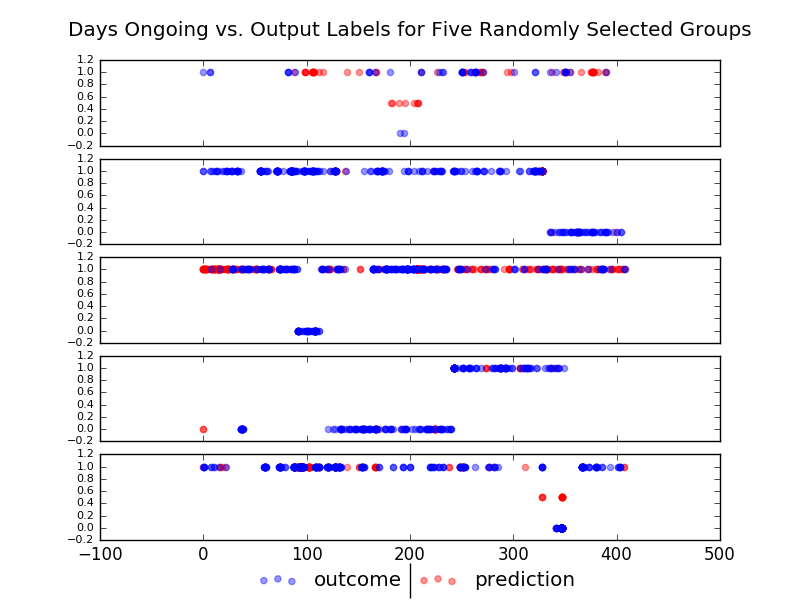
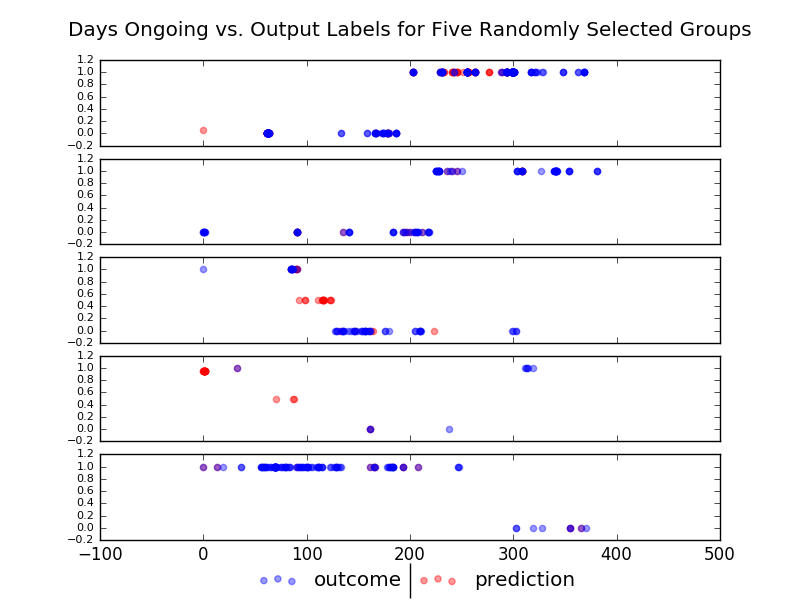
finalized my benchmark model and my visualization section

diff --git a/code/model.py b/code/model.py
@@ -3,9 +3,17 @@ import pandas as pd
 import numpy as np
 
 
-def group_decision(train, test):
+def group_decision(train, test, only_certain=True):
     # Exploit the leak revealed by Loiso and team to try and directly infer any labels that can be inferred
     # https://www.kaggle.com/c/predicting-red-hat-business-value/forums/t/22807/0-987-kernel-now-available-seems-like-leakage
+
+    # Make a lookup dataframe, and copy those in first since we can be sure of them
+    lookup = train.groupby(["group_1", "date_act"], as_index=False)["outcome"].mean()
+    test = pd.merge(test.reset_index(), lookup, how="left", on=["group_1", "date_act"]).set_index("activity_id")
+
+    # Create some date filling columns that we'll use after we append
+    train["date_act_fillfw"] = train["date_act"]
+    train["date_act_fillbw"] = train["date_act"]
 
     # Create some group filling columns for later use
     train["group_fillfw"] = train["group_1"]
@@ -15,6 +23,10 @@ def group_decision(train, test):
     df = train.append(test)
     df = df.sort_values(by=["group_1", "date_act"])
 
+    # Fill the dates
+    df["date_act_fillfw"] = df["date_act_fillfw"].fillna(method="ffill")
+    df["date_act_fillbw"] = df["date_act_fillbw"].fillna(method="bfill")
+
     # Fill labels
     df["outcome_fillfw"] = df["outcome"].fillna(method="ffill")
     df["outcome_fillbw"] = df["outcome"].fillna(method="bfill")
@@ -23,14 +35,34 @@ def group_decision(train, test):
     df["group_fillfw"] = df["group_fillfw"].fillna(method="ffill")
     df["group_fillbw"] = df["group_fillbw"].fillna(method="bfill")
 
-    # Use the filled labels only if the labels were from the same group, unless we're at the end of the group
+    # Create int booleans for whether the fillers are from the same date
+    df["fw_same_date"] = (df["date_act_fillfw"] == df["date_act"]).astype(int)
+    df["bw_same_date"] = (df["date_act_fillbw"] == df["date_act"]).astype(int)
+
+    # Create int booleans for whether the fillers are in the same group
     df["fw_same_group"] = (df["group_fillfw"] == df["group_1"]).astype(int)
     df["bw_same_group"] = (df["group_fillbw"] == df["group_1"]).astype(int)
-    df["interfill"] = (df["outcome_fillfw"]*df["fw_same_group"] +
-                       df["outcome_fillbw"]*df["bw_same_group"]) / (df["fw_same_group"] + df["bw_same_group"])
+
+    # Use the filled labels only if the labels were from the same group, unless we're at the end of the group
+    df["interfill"] = (df["outcome_fillfw"] *
+                       df["fw_same_group"] +
+                       df["outcome_fillbw"] *
+                       df["bw_same_group"]) / (df["fw_same_group"] +
+                                               df["bw_same_group"])
+
+    # If the labels are at the end of the group, cushion by 0.5
+    df["needs cushion"] = (df["fw_same_group"] * df["bw_same_group"] - 1).abs()
+    df["cushion"] = df["needs cushion"] * df["interfill"] * -0.1 + df["needs cushion"] * 0.05
+    df["interfill"] = df["interfill"] + df["cushion"]
+
+    # Fill everything
     df["outcome"] = df["outcome"].fillna(df["interfill"])
 
-    # Paste outcomes to the original index
+    if only_certain == True:
+        # Drop anything we're not 100% certain of
+        df = df[(df["outcome"] == 0.0) | (df["outcome"] == 1.0)]
+
+    # Return outcomes to the original index
     test["outcome"] = df["outcome"]
 
     return test["outcome"]
@@ -41,11 +73,11 @@ def benchmark_model():
     # Load in the data set simply by merging together
     train, test = simple_load()
 
-    # Try to just cluster together dates by each
-    test["outcome"] = group_decision(train, test)
+    # Try to just infer the correct dates using the data leak
+    test["outcome"] = group_decision(train, test, only_certain=False)
 
     # Write the inferred predictions to a template
-    test.reset_index()[["activity_id", "outcome"]].to_csv("../output/starter_template.csv")
+    test.reset_index()[["activity_id", "outcome"]].to_csv("../output/starter_template.csv", index=False)
 
     # Fill any missing rows with the mean of the whole column
     test["outcome"] = test["outcome"].fillna(test["outcome"].mean())

diff --git a/code/explore.py b/code/explore.py
@@ -49,7 +49,7 @@ def groupplot():
     grps["Min Label"] = df.groupby("group_1")["prediction"].min()
     grps["Max Label"] = df.groupby("group_1")["prediction"].max()
     grps["Count Label"] = df.groupby("group_1")["prediction"].count()
-    grps = grps[grps["Min Label"] != grps["Max Label"]][grps["Count Label"] >= 10]
+    grps = grps[grps["Min Label"] < 0.25][grps["Max Label"] > 0.75][grps["Count Label"] >= 10]
     grps = grps.sample(5, random_state=42)
     grps = list(grps.index)
 
@@ -84,9 +84,6 @@ def groupplot():
     plt.savefig("../images/output_group_scatters.png")
     plt.clf()
 
-# train, test = simple_load()
-template = pd.read_csv("../output/starter_template.csv")
-
-print len(template.index)
-print len(template[(template["outcome"] != 0.0) & (template["outcome"] != 1.0)].index)
+train, test = simple_load()
+groupplot()
 

diff --git a/code/utilities.py b/code/utilities.py
@@ -1,5 +1,4 @@
 import pandas as pd
-import numpy as np
 
 
 def simple_load():

diff --git a/report.md b/report.md
@@ -244,16 +244,13 @@ Because the data leak is going to be an important part of this
 competition, and because it's a little tricky to understand exactly how
 the leak happened, I'm devoting this section to my benchmark model
 [which is very similar to the loisso team's leak model](https://www.kaggle.com/loisso/predicting-red-hat-business-value/lb-0-987-group-1-and-date-trick/output).
-My benchmark model will probably serve as the starting point for my
-final machine learning model, so it's very important to understand what
-data points are leftover from the leak that still need to be estimated.
 
 The following graphic is five separate scatter plots, each of a randomly
 selected people group from the "group_1" feature, with predictions from
 my benchmark model. The graph was definitely inspired by one that
 [dmi3kno created originally](https://www.kaggle.com/dmi3kno/predicting-red-hat-business-value/redhat-hack-in-plain-english-eda),
-but this one pertains specifically to my implementation of the
-leak/exploit model.
+but this one pertains specifically to 
+[my implementation of the leak/exploit model](https://www.kaggle.com/kevinpalm/predicting-red-hat-business-value/simplified-leak-starter-template/output).
 
 ![Multiple Scatter Plots of the Benchmark/Leak Model Predictions](images/output_group_scatters.png)
 
@@ -270,14 +267,22 @@ training set on the right, and it looks at the nearest output on the
 left. If they both agree, it assigns the same label to the point it is
 currently estimating. If they disagree, it assigns a label of 0.5. If
 the point happens to be on the rightmost or leftmost extreme, it assumes
-the closest output label is correct.
+the closest output label is correct. Finally, it adds a little
+cushioning to any of the less certain values, such as the values on the
+rightmost and leftmost extremes.
 
-And that's all there is to it. This inferential model handles 425,656
-rows of the testing data. So now we have 73,031 rows of data remaining
-to be estimated with a machine learning model, and whoever can do it
-best will win the competition!
+No doubt a lot of kagglers are going to use some an inferential leak
+model as their first pass, and then estimate the remaining data points
+with a more sophisticated model. I think that's a very valid approach,
+as there are still 70,000 remaining points that have disagreeing labels
+to each side of them. I think the other dominant approach will be to
+create a model that accounts for the leak by "translating" it into the
+input features. Whichever way you approach the problem, the relationship
+between activity dates and people groups is very important!
 
 ### Algorithms and Techniques
+
+
 In this section, you will need to discuss the algorithms and techniques you intend to use for solving the problem. You should justify the use of each one based on the characteristics of the problem and the problem domain. Questions to ask yourself when writing this section:
 - _Are the algorithms you will use, including any default variables/parameters in the project clearly defined?_
 - _Are the techniques to be used thoroughly discussed and justified?_
